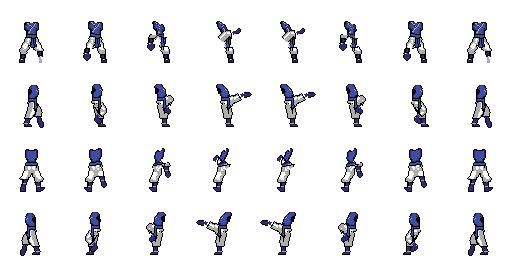
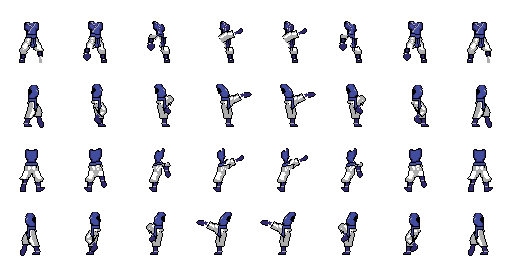
Muay Thai Roundhouse S/N v5: trunk turned into the kick (renderer shade variant darkens the side turning away), shoulders lean over the standing leg, rib-height shin swung out past the body in S and visible beside the trunk in N, knee and foot on E's rows (Christopher: torso read flat)
Claude-Session: https://claude.ai/code/session_018MJfRbpN7JzNefXF5zSYu9

diff --git a/tools/strikes_sn.py b/tools/strikes_sn.py
@@ -19,7 +19,7 @@ def mirror_arm(t):   # the same arm shape seen from behind: angles mirrored (N p
     a, e, sc, fist, *rest = t; return (-a, mir(e), sc, fist, *rest)
 def leg(name, sec, hip, knee, ankle, foot): return {'name': name, 'construction': 'band', 'hipX': hip[0], 'hipRow': hip[1], 'kneeX': knee[0], 'kneeRow': knee[1], 'ankle': list(ankle), 'foot': foot, 'section': sec}
 NEWLEGS = {   # S poses (N mirrored x -> 64 - x); rows at body dy 0, shifted by the frame's dy
-    'mtround-R': ((30, 39), (35, 34), (43, 32), 'pointUR'),   # rib-height roundhouse: shin swung across at rib height
+    'mtround-R': ((30, 39), (36, 35), (45, 32), 'pointUR'),   # rib-height roundhouse: shin swung across at rib height, out past the far side (knee and foot on E's rows)
     'tchamber-L': ((34, 39), (33, 34), (33, 41), 'sFoot'),    # teep: far (lead) knee to the chest
     'teep-L': ((34, 39), (33, 36), (33, 40), 'sSole'),        # teep: the sole pushed out at the viewer, leg foreshortened
     'sweepmid-R': ((30, 40), (30, 47), (32, 53), 'sFoot'),    # sweep: rear foot coming through low
@@ -27,12 +27,16 @@ NEWLEGS = {   # S poses (N mirrored x -> 64 - x); rows at body dy 0, shifted by 
     'smkick-R': ((30, 39), (29, 44), (29, 47), 'sFoot'),      # superman punch: rear leg kicked back away from the viewer, foreshortened behind the body
     'smair-L': ((34, 39), (35, 45), (35, 50), 'sFoot'),       # superman punch: lead leg tucked under the body in flight
 }
+NEWLEGS_N = {   # back-view poses that are not the S pose mirrored (as given, no x flip)
+    'mtround-R': ((34, 39), (39, 35), (46, 32), 'pointUR'),   # seen from behind the rib-height shin swings out past the near side, visible beside the trunk (as heavyAttack's N round)
+}
 def legpose(spec, d, key, side, dy):
     if key in NEWLEGS:
-        hip, knee, ank, foot = NEWLEGS[key]; m = (lambda x: x) if d == 'S' else (lambda x: 64 - x)
-        n = '%s-%s-d%d' % (d, key, dy)
-        if n not in [p['name'] for p in spec['legs']['poses']]:
-            spec['legs']['poses'].append(leg(n, d, (m(hip[0]), hip[1] + dy), (m(knee[0]), knee[1] + dy), (m(ank[0]), ank[1] + dy), foot))
+        hip, knee, ank, foot = NEWLEGS_N[key] if d == 'N' and key in NEWLEGS_N else NEWLEGS[key]
+        m = (lambda x: x) if d == 'S' or key in NEWLEGS_N else (lambda x: 64 - x)
+        n = '%s-%s-d%d' % (d, key, dy)   # always rebuilt (the committed spec may hold an older version of the pose)
+        spec['legs']['poses'] = [p for p in spec['legs']['poses'] if p['name'] != n]
+        spec['legs']['poses'].append(leg(n, d, (m(hip[0]), hip[1] + dy), (m(knee[0]), knee[1] + dy), (m(ank[0]), ank[1] + dy), foot))
         return n
     n = '%s-%s-%s' % (d, key, side)   # approved heavyAttack kick-chain pose
     if n not in [p['name'] for p in spec['legs']['poses']]:
@@ -41,7 +45,11 @@ def legpose(spec, d, key, side, dy):
 
 VARS = {'S-plantR1': {'plant': {'side': 'R', 'dx': 1}}, 'S-plantR': {'plant': {'side': 'R', 'dx': 2}},   # far-leg kicks: the rear (standing) leg moves under the body
         'air0': {'bob': 0},   # airborne frames: the front/back view keeps the body at bob 0 (the afro's top row is row 0, no room to rise)
-        'N-plantR1': {'plant': {'side': 'R', 'dx': -1}}, 'N-plantR': {'plant': {'side': 'R', 'dx': -2}}}
+        'N-plantR1': {'plant': {'side': 'R', 'dx': -1}}, 'N-plantR': {'plant': {'side': 'R', 'dx': -2}},
+        # the trunk turned into a rear-leg kick (Christopher 2026-10-20: the front/back torso read flat): the side turning
+        # away (screen right in both views) is one shade darker, from further out while the turn starts
+        'S-shadeR1': {'shade': {'from': 34, 'far': 'right'}}, 'S-shadeR2': {'shade': {'from': 32, 'far': 'right'}},
+        'N-shadeR1': {'shade': {'from': 34, 'far': 'right'}}, 'N-shadeR2': {'shade': {'from': 32, 'far': 'right'}}}
 # per state: {frame: overrides}, S semantics. R/L arm = (angle, forearm angle or None, scale, fist[, elbowAt]); NR/NL
 # explicit back view (default: mirror of the S arm, at the back view's depth); tw = (pelvis, shoulders, head) twist
 # (N negated); kick = (side, pose key); var = heavyAttack part variants (S- names, N- swapped in); z = kick leg depth
@@ -54,10 +62,10 @@ SN = {
  'muayThaiCalfKick': {1: dict(lift=('R', 50), var=['S-hikeR1', 'bend1', 'S-plantL1']), 2: dict(R=(30, 15, 1, 'up'), kick=('R', 'low'), var=['S-hikeR', 'bend2', 'S-kneeL', 'S-rotR', 'S-plantL'], tw=(-1, 1, 2)),
                       3: dict(lift=('R', 49), var=['S-hikeR', 'bend2', 'S-kneeL', 'S-rotR', 'S-plantL'], tw=(0, 1, 1))},
  'muayThaiRoundhouse': {1: dict(R=(25, 185, 1, 'up'), lift=('R', 50), var=['S-hikeR1', 'bend1', 'S-plantL1']),
-                        2: dict(R=(35, 60, 1, 'up'), lift=('R', 40), var=['S-hikeR', 'bend2', 'S-kneeL', 'S-rotR', 'S-plantL'], tw=(1, -1, -1)),
-                        3: dict(R=(40, 30, 1, 'up'), kick=('R', 'mtround-R'), var=['S-hikeR', 'bend2', 'S-kneeL', 'S-rotR2', 'S-plantL'], tw=(1, -2, -2)),
-                        4: dict(R=(40, 30, 1, 'up'), kick=('R', 'mtround-R'), var=['S-hikeR', 'bend2', 'S-kneeL', 'S-rotR2', 'S-plantL'], tw=(1, -2, -2)),
-                        5: dict(R=(30, 70, 1, 'up'), lift=('R', 40), var=['S-hikeR', 'bend2', 'S-kneeL', 'S-rotR', 'S-plantL'], tw=(0, -1, -1)),
+                        2: dict(R=(35, 60, 1, 'up'), lift=('R', 40), var=['S-hikeR', 'bend2', 'S-kneeL', 'S-rotR', 'S-plantL', 'S-shadeR1'], tw=(1, -1, -1)),
+                        3: dict(R=(40, 30, 1, 'up'), kick=('R', 'mtround-R'), var=['S-hikeR', 'bend2', 'S-kneeL', 'S-rotR2', 'S-plantL', 'S-shadeR2'], tw=(1, 2, 2)),
+                        4: dict(R=(40, 30, 1, 'up'), kick=('R', 'mtround-R'), var=['S-hikeR', 'bend2', 'S-kneeL', 'S-rotR2', 'S-plantL', 'S-shadeR2'], tw=(1, 2, 2)),
+                        5: dict(R=(30, 70, 1, 'up'), lift=('R', 40), var=['S-hikeR', 'bend2', 'S-kneeL', 'S-rotR', 'S-plantL', 'S-shadeR1'], tw=(0, -1, -1)),
                         6: dict(R=(25, 190, 1, 'up'), lift=('R', 50), var=['S-hikeR1', 'bend1', 'S-plantL1'])},
  'muayThaiTeep': {1: dict(lift=('L', 39), var=['bend1', 'S-plantR1']), 2: dict(kick=('L', 'teep-L'), var=['bend2', 'S-kneeR', 'S-plantR']),
                   3: dict(kick=('L', 'teep-L'), var=['bend2', 'S-kneeR', 'S-plantR']), 4: dict(lift=('L', 39), var=['bend1', 'S-plantR1'])},
